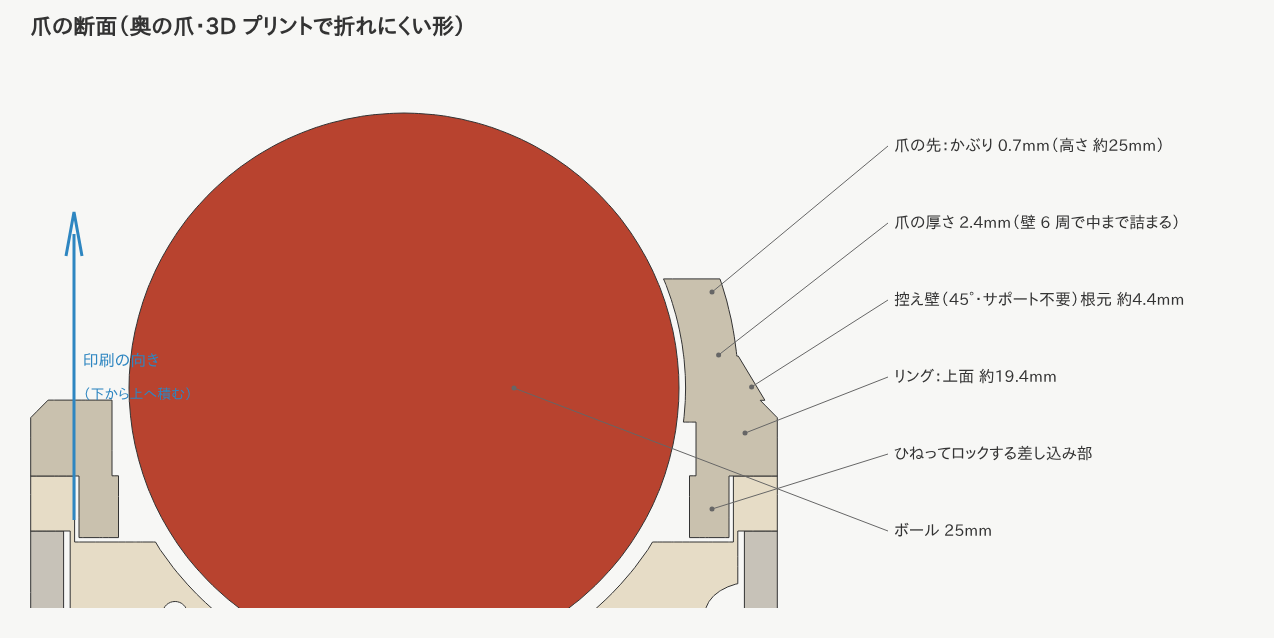
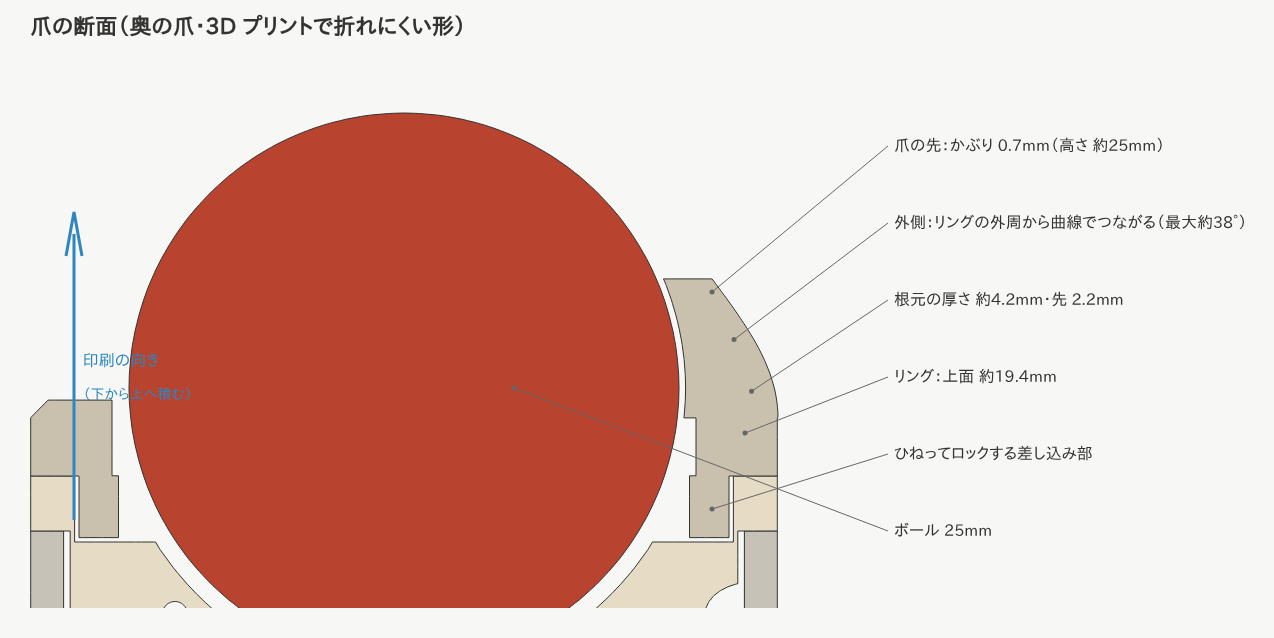
Concept: claws blend into the ring with a curved profile
Claude-Session: https://claude.ai/code/session_017zNm7dMSTHELcztuNr6aNy

diff --git a/case/concept_ukishima.py b/case/concept_ukishima.py
@@ -47,10 +47,12 @@ RING_TOP = KEY_TOP + 0.3          # リングの上面 (キーキャップとほ
 CLAWS = (160, 50, 270)            # 爪の向き (親指の来る -20° のまわりは空ける)
 CLAW_OVER = 0.7                   # 爪の先がボールにかぶる幅 (半径で)。これを基準にする
 # 3D プリント (A1 mini などの 0.4mm ノズル・PLA) で折れにくい形
-CLAW_T = 2.4                      # 爪の厚さ (ボールの外側へ)。0.4mm ノズルで壁 6 周 = 中まで詰まる
-CLAW_ROOT_W = 8.0                 # 爪の幅 (根元・mm)
+# 爪の外側の面は、リングの外周 (縦の面) からそのまま立ち上がり、なめらかにボール側へ曲がる
+# (根元で外周に接する曲線 = 段差のない「馴染む」形)。上から見ても、根元は裾広がりの曲線でリングに溶け込む
+CLAW_TIP_T = 2.2                  # 爪の先の厚さ (ボールの外側へ)。0.4mm ノズルで壁 5〜6 周
+CLAW_ROOT_W = 14.0                # 爪の幅 (根元・リングの上面で・mm)
 CLAW_TIP_W = 4.0                  # 爪の幅 (先・mm)
-BUTTRESS = 2.0                    # 根元の外側の「控え壁」の張り出し (45° の斜面 → サポートなしで印刷できる)
+CLAW_STEPS = 28                   # 曲面を作る輪切りの数
 
 KEYS = {
     "left": [(c*U, r*U) for c in range(5) for r in range(4)] + [(5*U, 0), (5*U, 2*U), (5*U, 3*U), (6*U, 0)],
@@ -82,24 +84,21 @@ def claw_cover(size):
     tip_r = R_ - CLAW_OVER                                   # 爪の先の半径
     tip_z = cz + ((R_ + 0.3)**2 - tip_r**2) ** 0.5            # 爪の先の高さ (ボールの赤道より上)
     claws = []
-    r_mid = R_ + 0.3 + CLAW_T/2
-    shell = (mf.Manifold.sphere(R_ + 0.3 + CLAW_T, 128) - mf.Manifold.sphere(R_ + 0.3, 128)).translate([0, 0, cz])
-
-    def half_deg(width, r):
-        return math.degrees(width/2/r)
+    r_base = bu.UNIT_R                                       # 根元の外側 = リングの外周
+    r_tip = tip_r + CLAW_TIP_T                               # 先の外側
+    h = tip_z - RING_TOP
     for a in CLAWS:
-        # 爪: 根元が広く先が細い台形を、ボールの曲面に沿った殻で切り出す
-        root = bu.sector(0, R_ + 6, a - half_deg(CLAW_ROOT_W, r_mid), a + half_deg(CLAW_ROOT_W, r_mid),
-                         RING_TOP - 1.0, RING_TOP)
-        tip = bu.sector(0, R_ + 6, a - half_deg(CLAW_TIP_W, r_mid), a + half_deg(CLAW_TIP_W, r_mid),
-                        tip_z - 0.01, tip_z)
-        claw = shell ^ mf.Manifold.batch_hull([root, tip])
-        # 根元の外側の控え壁 (三角の断面。根元を厚くして、層の境目で折れにくくする)
-        r_out = R_ + 0.3 + CLAW_T
-        wb = half_deg(CLAW_ROOT_W, r_mid)
-        foot = bu.sector(R_ + 0.3, min(r_out + BUTTRESS, bu.UNIT_R - 0.6), a - wb, a + wb, RING_TOP - 0.01, RING_TOP)
-        top = bu.sector(R_ + 0.3, r_out, a - wb*0.8, a + wb*0.8, RING_TOP + BUTTRESS - 0.01, RING_TOP + BUTTRESS)
-        claws.append(claw + mf.Manifold.batch_hull([foot, top]))
+        slices = []
+        for i in range(CLAW_STEPS + 1):
+            t = i / CLAW_STEPS
+            z = RING_TOP - 0.8 + (h + 0.8) * t if i else RING_TOP - 0.8
+            # 外側の面: 根元では縦 (リングの外周に接する)、先に向かって内側へ曲がる
+            r_out = r_tip + (r_base - r_tip) * math.cos(math.pi / 2 * t)
+            # 幅: 根元は広く、先へ向かって曲線で細くなる
+            w = CLAW_TIP_W + (CLAW_ROOT_W - CLAW_TIP_W) * (1 - t) ** 2.2
+            half = math.degrees(w / 2 / r_out)
+            slices.append(bu.sector(0, r_out, a - half, a + half, z - 0.01, z))
+        claws.append(k.union([mf.Manifold.batch_hull([slices[n], slices[n + 1]]) for n in range(CLAW_STEPS)]))
     m = ring + k.union(claws)
     m = m - mf.Manifold.sphere(R_ + 0.3, 128).translate([0, 0, cz])          # 爪の内側をボールに沿わせる
     spigot = (k.cyl(0, 0, bu.RECESS_Z + 0.2, bu.CUP_TOP + 0.01, bu.SPIGOT_R) -

diff --git a/tools/draw_concept.py b/tools/draw_concept.py
@@ -48,8 +48,8 @@ def main(out):
     rin = R_ + 0.3
     labels2 = [
         (rin + 1.2, claw_top - 0.6, f"爪の先：かぶり {cu.CLAW_OVER}mm（高さ 約{claw_top:.0f}mm）", (22, 31)),
-        (rin + 1.5, cz + 1.5, f"爪の厚さ {cu.CLAW_T}mm（壁 6 周で中まで詰まる）", (22, 27.5)),
-        (rin + cu.CLAW_T + 0.6, cu.RING_TOP + 0.6, f"控え壁（45°・サポート不要）根元 約{cu.CLAW_T + cu.BUTTRESS:.1f}mm", (22, 24)),
+        (rin + 2.2, cz + 2.2, "外側：リングの外周から曲線でつながる（最大約38°）", (22, 27.5)),
+        (rin + 3.0, cu.RING_TOP + 0.4, f"根元の厚さ 約{bu.UNIT_R - rin:.1f}mm・先 {cu.CLAW_TIP_T}mm", (22, 24)),
         (15.5, cu.RING_TOP - 1.5, f"リング：上面 約{cu.RING_TOP:.1f}mm", (22, 20.5)),
         (14.0, bu.CUP_TOP - 1.5, "ひねってロックする差し込み部", (22, 17)),
         (5, cz, "ボール 25mm", (22, 13.5)),
